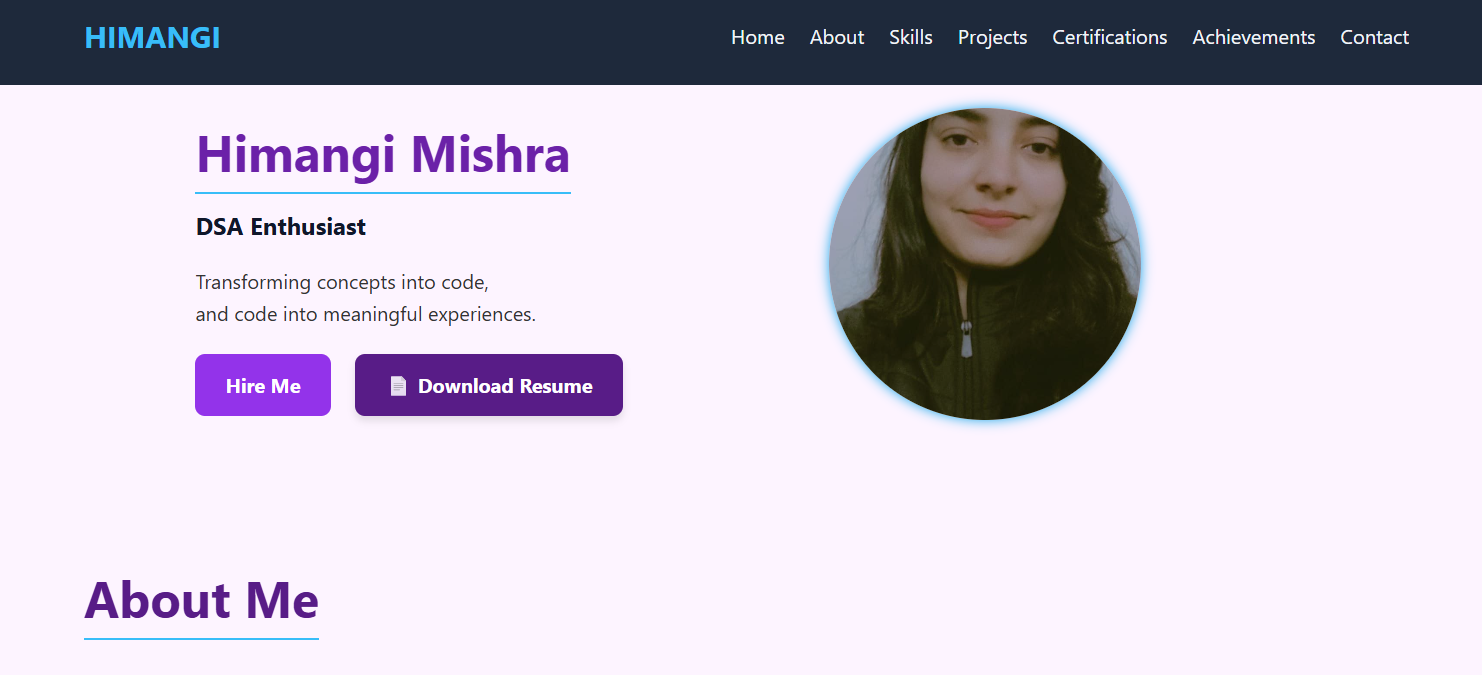
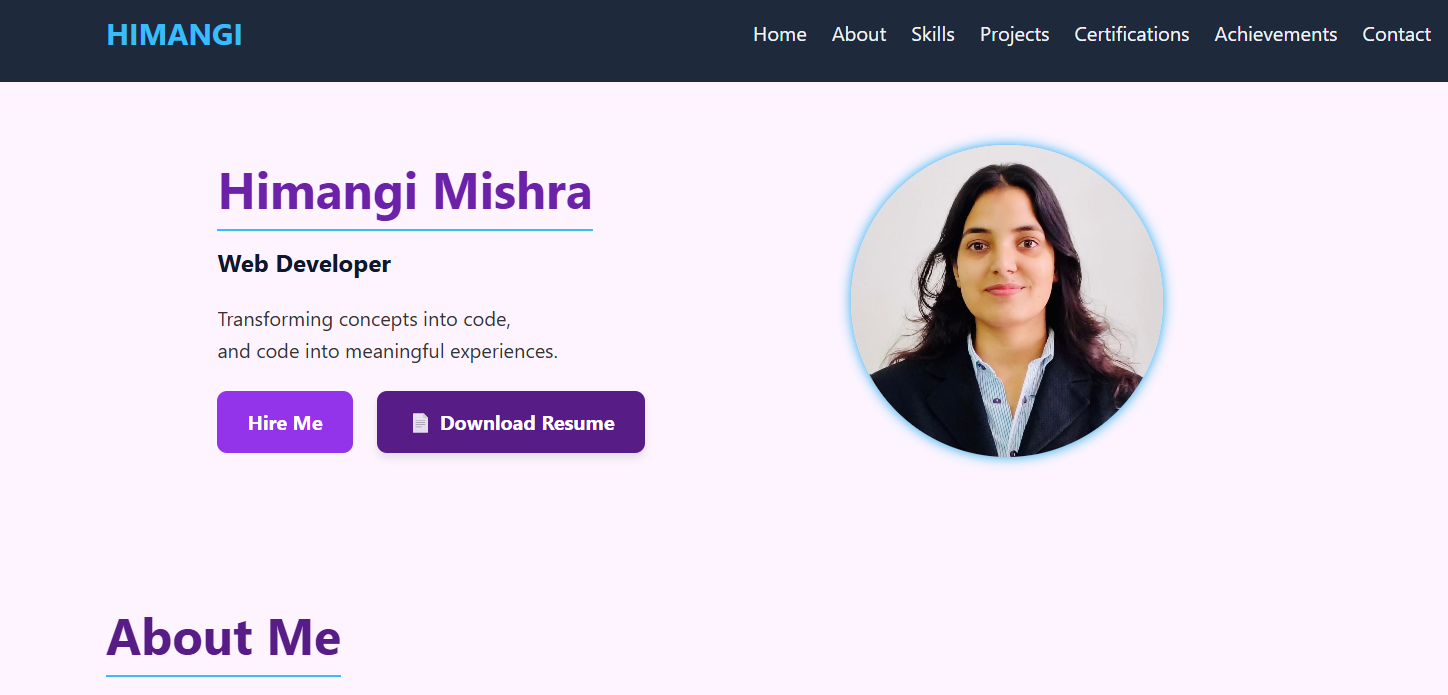
updated portfolio

diff --git a/index.html b/index.html
@@ -63,7 +63,7 @@
           Hire Me
         </a>
 
-        <a href="https://drive.google.com/file/d/181E9ZA70vGhGsaoex8GapFJu9NQ8vwtP/view?usp=drive_link" download style="
+        <a href="https://drive.google.com/file/d/1ucebtgfH8vSrPhEqWdMcUs7bglSU_xvB/view?usp=drive_link" download style="
           display: inline-block;
           padding: 12px 24px;
           background-color: #581c87;
@@ -98,12 +98,11 @@
       <div id="about-summary" class="about-tab"
         style="flex: 3 1 500px; background-color: #fce7f3; color: black; padding: 20px; display: block;">
 
-        <p style="font-weight: 400; font-style:italic;">I am an enthusiastic and dedicated developer with a strong foundation in Java and Data Structures & Algorithms,
-           always eager to solve challenging problems with efficient solutions.
-            Along with development, I am passionate about exploring the field of Machine Learning, where I enjoy applying concepts to real-world projects.
-             My interest lies in continuously learning new technologies and building impactful applications that add value.
-              With effective communication skills and a collaborative mindset,
-               I thrive in team environments and can clearly convey technical ideas to both technical and non-technical audiences.
+        <p style="font-weight: 400; font-style:italic;">I am an enthusiastic and detail-oriented aspiring Data Analyst with a passion for turning data into actionable insights.
+           Skilled in SQL, Python, Excel, Power BI, and DBMS, I enjoy analyzing complex datasets, creating interactive dashboards,
+            and solving real-world problems through data-driven decision-making. I believe in writing clean, efficient, and maintainable solutions
+             while approaching every problem with a logical and analytical mindset. I thrive in collaborative environments, enjoy learning from new challenges,
+              and am always eager to enhance my technical and analytical skills.
         </p>
 
       </div>
@@ -126,7 +125,7 @@
         style="flex: 3 1 500px; background-color: #fce7f3; color: black; padding: 20px; display: none;">
         <p><strong>★ Babu Banarasi Das Institute of Technology and Management</strong><br>
           → Bachelor of Technology<br>
-          → Computer Science Engineering | 2022 - 2026 | Percentage: 76</p>
+          → Computer Science Engineering | 2022 - 2026 | CGPA:8 </p>
         <br>
         <p><strong>★ OXFORD PUBLIC SCHOOL</strong><br>
           → Intermediate<br>
@@ -143,33 +142,40 @@
     <h2>Skills</h2>
     <div class="skills-boxes">
       <div class="skills-box">
-        <h3 style="color: white;">Developer</h3>
+        <h3 style="color: white;">Data Analytics</h3>
         <ul>
-          <li>HTML 5</li>
-          <li>CSS 3</li>
-          <li>JavaScript</li>
-          <li>AWS</li>
+          <li>Excel</li>
+          <li>Power BI</li>
+          <li>MySQL</li>
+          <li>NumPy</li>
+          <li>Pandas</li>
+           <li>Matplotlib</li>
+           <li>Scikit-learn</li>
+
         </ul>
       </div>
       <div class="skills-box">
-        <h3 style="color: white;">Programmer</h3>
+        <h3 style="color: white;">Programming Languages</h3>
         <ul>
           <li>Java</li>
-          <li>C</li>
-          <li>DSA</li>
-          <li>MySQL</li>
-           <li>PostgreSQL</li>
+          <li>Python</li>
+          <li>SQL</li>
+          <li>JavaScript</li>
+           <li>C</li>
         </ul>
       </div>
       <div class="skills-box">
-        <h3 style="color: white;">Toolkit</h3>
+        <h3 style="color: white;">Tools & Frameworks</h3>
         <ul>
-          <li>Canva</li>
+          <li>Flask</li>
+          <li>Spring Boot</li>
           <li>Git</li>
           <li>GitHub</li>
           <li>VS Code</li>
+        
           <li>Google Colab</li>
           <li>Jupyter Notebook</li>
+          <li>Kaggle</li>
         </ul>
       </div>
     </div>
@@ -193,8 +199,8 @@
       </div>
       <div class="skills-box">
         <a href="https://github.com/himangi131" target="_blank">
-          <img src="pizza sales analysis screenshot.png" alt="pizza sales analysis screenshot"></a>
-        <h3>Pizza sales analysis</h3>
+          <img src="Dashboard.png" alt="pizza sales analysis screenshot"></a>
+        <h3>Pizza sales Excel Dashboard</h3>
         <p>Created a pizza sales analysis project with MySQL for analysis of sales data.
         </p>
         <div>
@@ -205,7 +211,7 @@
       </div>
       <div class="skills-box">
         <a href="https://github.com/himangi131" target="_blank">
-          <img src="AQI IMAGE.png" alt="AQI predicton screenshot"></a>
+          <img src="AQI image.png" alt="AQI predicton screenshot"></a>
         <h3>Air quality index prediction model</h3>
         <p>Developed a Air Quality Index prediction model using historical environmental data achieving forecasting of pollution levels.</p>
         <div>

diff --git a/app.js b/app.js
@@ -7,10 +7,10 @@ function showAboutTab(tab) {
 }
 
 const titles = [
-  "Web Developer",
-  "Programmer",
+  "Aspiring Data Analyst",
+  "SQL Developer",
+  "Java Developer",
   "Tech Enthusiast",
-  "DSA Enthusiast"
 ];
 let index = 0, charIndex = 0, currentText = '', isDeleting = false;
 function type() {
